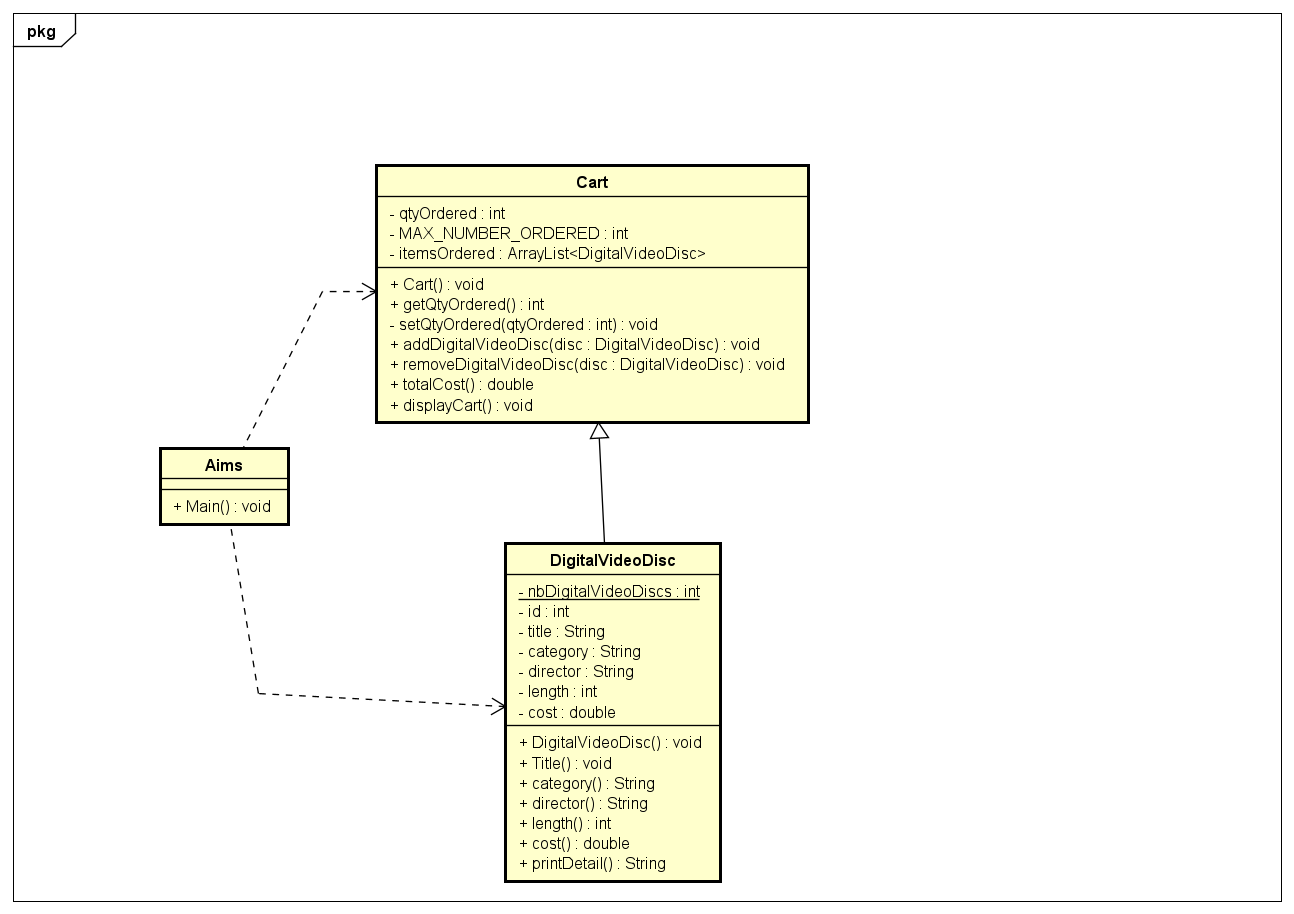
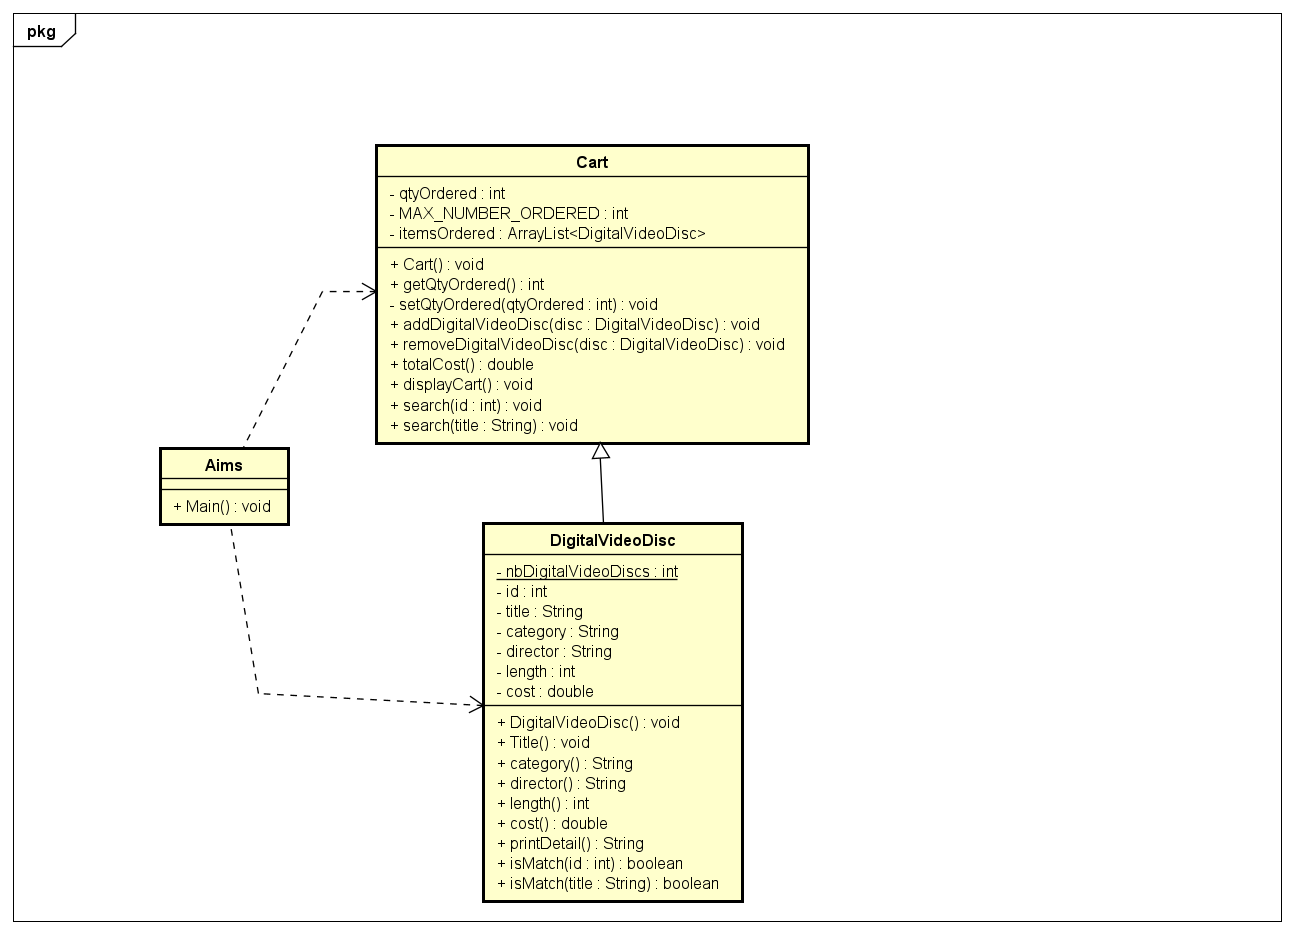
add search() method for cart

diff --git a/Lab02/AimsProject/src/Cart.java b/Lab02/AimsProject/src/Cart.java
@@ -82,4 +82,33 @@ public class Cart {
 		System.out.println("********************************************************************************************************");
 	}
 	
+	public void search(String title) {
+		int check = 0;
+		for(int i = 0; i < qtyOrdered; ++i) {
+			if(itemsOrdered[i].isMatch(title)) {
+				check = 1;
+				System.out.println(itemsOrdered[i].printDetail());
+			}
+		}
+		
+		if(check == 0) {
+			System.out.println("not found!");
+		}
+	}
+	
+	public void search(int id) {
+		int check = 0;
+		for(int i = 0; i < qtyOrdered; ++i) {
+			if(itemsOrdered[i].isMatch(id)) {
+				check = 1;
+				System.out.println(itemsOrdered[i].printDetail());
+				break;
+			}
+		}
+		
+		if(check == 0) {
+			System.out.println("not found!");
+		}
+		
+	}
 }

diff --git a/Lab02/AimsProject/src/DigitalVideoDisc.java b/Lab02/AimsProject/src/DigitalVideoDisc.java
@@ -69,4 +69,19 @@ public class DigitalVideoDisc {
 	public String printDetail() {
 		return(getTiltle() + " - " + getCategory() + " - " + getDirector() + " - " + getLength() + ": " + getCost() + " $");
 	}
+	
+	public boolean isMatch(String title) {
+		String[] tmp = title.split(" ", 0);
+		
+		for(String x: tmp) {
+			// convert all to LowerCase, and compare each word
+			if(getTiltle().toLowerCase().contains(x.toLowerCase())) return true;
+		}
+		
+		return false;
+	}
+	
+	public boolean isMatch(int id) {
+		return this.id == id;
+	}
 }

diff --git a/Lab02/AimsProject/src/CartTest.java b/Lab02/AimsProject/src/CartTest.java
@@ -17,6 +17,19 @@ public class CartTest {
 		
 		// Test the displayCart method
 		cart.displayCart();
+		
+		// Test search() by title
+		System.out.println("\nTest search() by title");
+		cart.search("a"); // => dvd2, dvd3 
+		cart.search("the lion"); // dvd1
+		cart.search("THE LION"); // dvd1
+		cart.search("The WAR");  // not found
+		
+		
+		// Test serch() by id
+		System.out.println("\nTest search() by title");
+		cart.search(3); // dvd3
+		cart.search(4); // not found
 	}
 
 }
